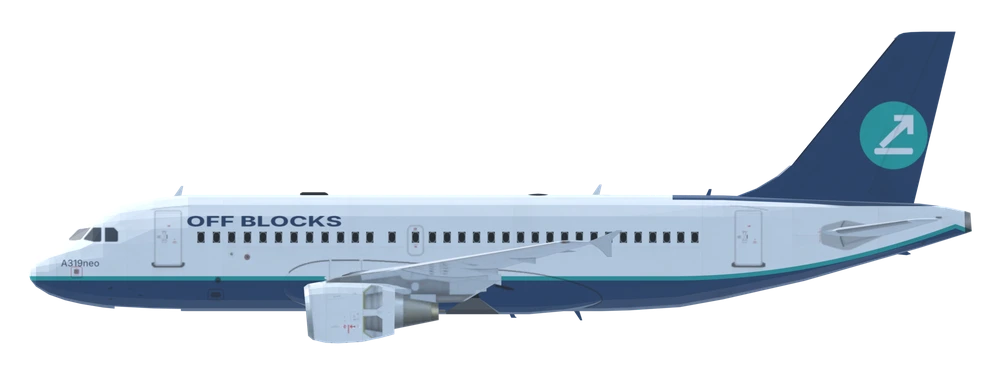
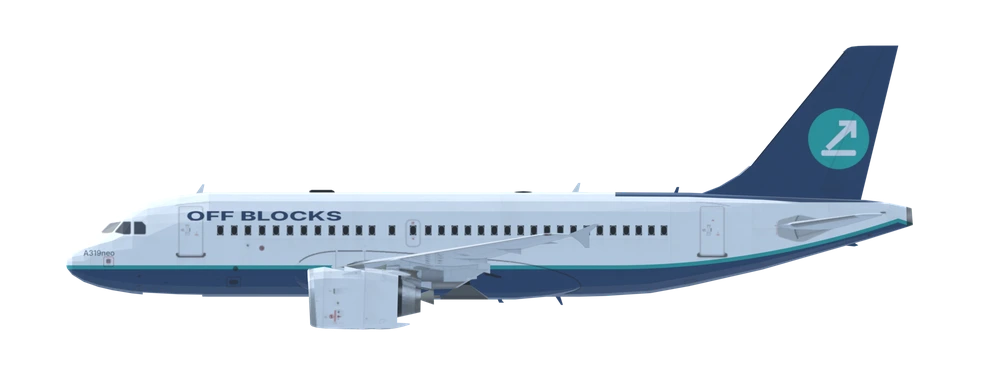
A319/A318 use A320 engine, A319neo uses A320neo engine
Claude-Session: https://claude.ai/code/session_01XrFePU9h1hCzy7p7tSHsYD

Changed region(s): [[0.031, 0.0587, 0.992, 0.9387], [0.155, 0.4987, 0.186, 0.528]]

diff --git a/sw.js b/sw.js
@@ -1,5 +1,5 @@
 /* Off Blocks service worker. Bump VER to push an update to installed copies. */
-const VER='ob-v36',CORE=["./", "index.html", "manifest.webmanifest", "network.json", "icons/icon-192.png", "icons/icon-512.png", "mapimg/detail.json", "mapimg/sat.webp", "mapimg/terrain.webp", "img/A19N.webp", "img/A19N_side.webp", "img/A20N.webp", "img/A20N_side.webp", "img/A21N.webp", "img/A21N_side.webp", "img/A21X.webp", "img/A21X_side.webp", "img/A306_side.webp", "img/A310.webp", "img/A310_side.webp", "img/A318.webp", "img/A318_side.webp", "img/A319.webp", "img/A319_side.webp", "img/A320.webp", "img/A320_side.webp", "img/A321.webp", "img/A321_side.webp", "img/A332_side.webp", "img/A333_side.webp", "img/A338.webp", "img/A338_side.webp", "img/A339.webp", "img/A339_side.webp", "img/A343_side.webp", "img/A346_side.webp", "img/A359_side.webp", "img/A35K.webp", "img/A35K_side.webp", "img/A388_side.webp", "img/AN24.webp", "img/AR21.webp", "img/AT42_side.webp", "img/AT76_side.webp", "img/B190.webp", "img/B37M.webp", "img/B37M_side.webp", "img/B38M.webp", "img/B38M_side.webp", "img/B39M.webp", "img/B39M_side.webp", "img/B3XM.webp", "img/B3XM_side.webp", "img/B712.webp", "img/B712_side.webp", "img/B722_side.webp", "img/B732.webp", "img/B732_side.webp", "img/B733_side.webp", "img/B734_side.webp", "img/B735.webp", "img/B735_side.webp", "img/B736_side.webp", "img/B737_side.webp", "img/B738_side.webp", "img/B739_side.webp", "img/B744_side.webp", "img/B748_side.webp", "img/B752.webp", "img/B752_side.webp", "img/B753.webp", "img/B753_side.webp", "img/B762.webp", "img/B762_side.webp", "img/B763_side.webp", "img/B764.webp", "img/B764_side.webp", "img/B772_side.webp", "img/B773.webp", "img/B773_side.webp", "img/B779.webp", "img/B779_side.webp", "img/B77L_side.webp", "img/B77W_side.webp", "img/B788_side.webp", "img/B789_side.webp", "img/B78X_side.webp", "img/BCS1_side.webp", "img/BCS3_side.webp", "img/C208.webp", "img/C208_side.webp", "img/C919.webp", "img/C919_side.webp", "img/CRJ2.webp", "img/CRJ2_side.webp", "img/CRJ7_side.webp", "img/CRJ9.webp", "img/CRJ9_side.webp", "img/CRJX_side.webp", "img/D328.webp", "img/DH8A.webp", "img/DH8A_side.webp", "img/DH8C_side.webp", "img/DH8D_side.webp", "img/DHC6_side.webp", "img/E120.webp", "img/E120_side.webp", "img/E135.webp", "img/E135_side.webp", "img/E140.webp", "img/E140_side.webp", "img/E145.webp", "img/E145_side.webp", "img/E170_side.webp", "img/E175_side.webp", "img/E190_side.webp", "img/E195.webp", "img/E195_side.webp", "img/E290_side.webp", "img/E295.webp", "img/E295_side.webp", "img/E75X.webp", "img/E75X_side.webp", "img/F100.webp", "img/F100_side.webp", "img/F50.webp", "img/F50_side.webp", "img/F70.webp", "img/F70_side.webp", "img/J41.webp", "img/L410.webp", "img/L410_side.webp", "img/MA60.webp", "img/MD83.webp", "img/MD83_side.webp", "img/MD90.webp", "img/MD90_side.webp", "img/RJ1H.webp", "img/RJ1H_side.webp", "img/RJ85.webp", "img/RJ85_side.webp", "img/SB20.webp", "img/SF34_side.webp", "img/T154.webp", "img/T154_side.webp"];
+const VER='ob-v37',CORE=["./", "index.html", "manifest.webmanifest", "network.json", "icons/icon-192.png", "icons/icon-512.png", "mapimg/detail.json", "mapimg/sat.webp", "mapimg/terrain.webp", "img/A19N.webp", "img/A19N_side.webp", "img/A20N.webp", "img/A20N_side.webp", "img/A21N.webp", "img/A21N_side.webp", "img/A21X.webp", "img/A21X_side.webp", "img/A306_side.webp", "img/A310.webp", "img/A310_side.webp", "img/A318.webp", "img/A318_side.webp", "img/A319.webp", "img/A319_side.webp", "img/A320.webp", "img/A320_side.webp", "img/A321.webp", "img/A321_side.webp", "img/A332_side.webp", "img/A333_side.webp", "img/A338.webp", "img/A338_side.webp", "img/A339.webp", "img/A339_side.webp", "img/A343_side.webp", "img/A346_side.webp", "img/A359_side.webp", "img/A35K.webp", "img/A35K_side.webp", "img/A388_side.webp", "img/AN24.webp", "img/AR21.webp", "img/AT42_side.webp", "img/AT76_side.webp", "img/B190.webp", "img/B37M.webp", "img/B37M_side.webp", "img/B38M.webp", "img/B38M_side.webp", "img/B39M.webp", "img/B39M_side.webp", "img/B3XM.webp", "img/B3XM_side.webp", "img/B712.webp", "img/B712_side.webp", "img/B722_side.webp", "img/B732.webp", "img/B732_side.webp", "img/B733_side.webp", "img/B734_side.webp", "img/B735.webp", "img/B735_side.webp", "img/B736_side.webp", "img/B737_side.webp", "img/B738_side.webp", "img/B739_side.webp", "img/B744_side.webp", "img/B748_side.webp", "img/B752.webp", "img/B752_side.webp", "img/B753.webp", "img/B753_side.webp", "img/B762.webp", "img/B762_side.webp", "img/B763_side.webp", "img/B764.webp", "img/B764_side.webp", "img/B772_side.webp", "img/B773.webp", "img/B773_side.webp", "img/B779.webp", "img/B779_side.webp", "img/B77L_side.webp", "img/B77W_side.webp", "img/B788_side.webp", "img/B789_side.webp", "img/B78X_side.webp", "img/BCS1_side.webp", "img/BCS3_side.webp", "img/C208.webp", "img/C208_side.webp", "img/C919.webp", "img/C919_side.webp", "img/CRJ2.webp", "img/CRJ2_side.webp", "img/CRJ7_side.webp", "img/CRJ9.webp", "img/CRJ9_side.webp", "img/CRJX_side.webp", "img/D328.webp", "img/DH8A.webp", "img/DH8A_side.webp", "img/DH8C_side.webp", "img/DH8D_side.webp", "img/DHC6_side.webp", "img/E120.webp", "img/E120_side.webp", "img/E135.webp", "img/E135_side.webp", "img/E140.webp", "img/E140_side.webp", "img/E145.webp", "img/E145_side.webp", "img/E170_side.webp", "img/E175_side.webp", "img/E190_side.webp", "img/E195.webp", "img/E195_side.webp", "img/E290_side.webp", "img/E295.webp", "img/E295_side.webp", "img/E75X.webp", "img/E75X_side.webp", "img/F100.webp", "img/F100_side.webp", "img/F50.webp", "img/F50_side.webp", "img/F70.webp", "img/F70_side.webp", "img/J41.webp", "img/L410.webp", "img/L410_side.webp", "img/MA60.webp", "img/MD83.webp", "img/MD83_side.webp", "img/MD90.webp", "img/MD90_side.webp", "img/RJ1H.webp", "img/RJ1H_side.webp", "img/RJ85.webp", "img/RJ85_side.webp", "img/SB20.webp", "img/SF34_side.webp", "img/T154.webp", "img/T154_side.webp"];
 self.addEventListener('install',e=>{e.waitUntil(caches.open(VER).then(c=>Promise.all(CORE.map(u=>c.add(u).catch(()=>0)))).then(()=>self.skipWaiting()))});
 self.addEventListener('activate',e=>{e.waitUntil(caches.keys().then(k=>Promise.all(k.filter(x=>x!==VER).map(x=>caches.delete(x)))).then(()=>self.clients.claim()))});
 self.addEventListener('fetch',e=>{const r=e.request,u=new URL(r.url);if(r.method!=='GET'||u.origin!==location.origin)return;
